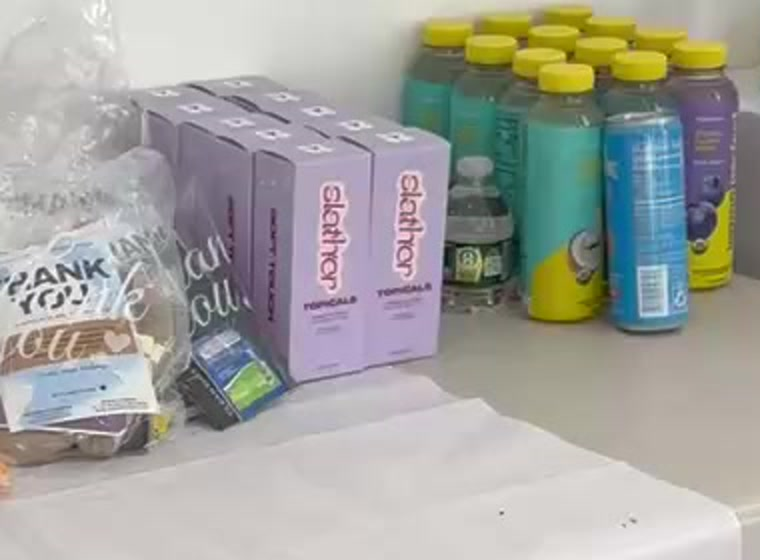
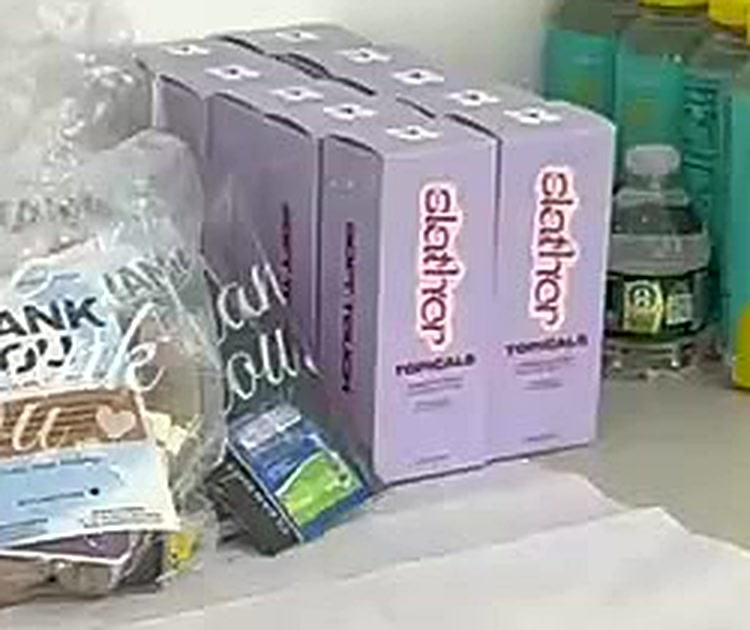
Refine partners: correct events, new photos, remove two, add to Partner tab
- Correct event labels: Lemon Perfect, Vital Proteins, and Topicals were
  Create & Recharge (not Pilates × Niara).
- Topicals: zoomed, enhanced product photo; Nuun: closer crop of the
  group shot showing the packets.
- Remove SkinnyPop (purchased with a Costco gift card, not a brand
  donation) and Breathe Right, including their images.
- Make the Featured Partners carousel reusable and also render it on the
  Partner With Us tab as social proof.

Claude-Session: https://claude.ai/code/session_01C5C3S2hPFNYWpceXrqPaqV

diff --git a/index.html b/index.html
@@ -3415,11 +3415,11 @@
         <div class="bq-partners-carousel">
           <button type="button" class="bq-partners-arrow bq-partners-prev" aria-label="Previous partner">&#8249;</button>
           <div class="bq-partners-viewport">
-            <div class="bq-partners-track" id="bq-partners-track"></div>
+            <div class="bq-partners-track"></div>
           </div>
           <button type="button" class="bq-partners-arrow bq-partners-next" aria-label="Next partner">&#8250;</button>
         </div>
-        <div class="bq-partners-dots" id="bq-partners-dots" role="tablist" aria-label="Choose partner"></div>
+        <div class="bq-partners-dots" role="tablist" aria-label="Choose partner"></div>
       </div>
 
       <style>
@@ -3468,91 +3468,91 @@
             event:'Pilates × Niara', handle:'@drinklmnt',
             url:'https://instagram.com/drinklmnt' },
           { name:'Lemon Perfect', img:'partners/lemon-perfect.jpg?v=2',
-            event:'Pilates × Niara', handle:'@lemonperfect',
+            event:'Create & Recharge', handle:'@lemonperfect',
             url:'https://instagram.com/lemonperfect' },
           { name:'Vital Proteins', img:'partners/vital-proteins.jpg?v=1',
-            event:'Pilates × Niara', handle:'@vitalproteins',
+            event:'Create & Recharge', handle:'@vitalproteins',
             url:'https://instagram.com/vitalproteins' },
           { name:'Grown Alchemist', img:'partners/grown-alchemist.jpg?v=1',
             event:'Juneteenth Celebration', handle:'@grownalchemist',
             url:'https://instagram.com/grownalchemist' },
-          { name:'SkinnyPop', img:'partners/skinnypop.jpg?v=1',
-            event:'Juneteenth Celebration', handle:'@skinnypop',
-            url:'https://instagram.com/skinnypop' },
           { name:'4AM', img:'partners/4am.jpg?v=1',
             event:'Juneteenth Celebration', handle:'@4amskin',
             url:'https://instagram.com/4amskin' },
-          { name:'Breathe Right', img:'partners/breathe-right.jpg?v=1',
-            event:'Juneteenth Celebration', handle:'@breatheright',
-            url:'https://instagram.com/breatheright' },
-          { name:'Nuun', img:'partners/nuun.jpg?v=1',
+          { name:'Nuun', img:'partners/nuun.jpg?v=2',
             event:'Pilates × Niara', handle:'@nuunhydration',
             url:'https://instagram.com/nuunhydration' },
-          { name:'Topicals', img:'partners/topicals.jpg?v=1',
-            event:'Pilates × Niara', handle:'@topicals',
+          { name:'Topicals', img:'partners/topicals.jpg?v=2',
+            event:'Create & Recharge', handle:'@topicals',
             url:'https://instagram.com/topicals' }
         ];
 
-        var section = document.getElementById('bq-partners');
-        if(!section || !PARTNERS.length) return;   // stays hidden while empty
-        section.hidden = false;
-
-        var track = document.getElementById('bq-partners-track');
-        var dotsWrap = document.getElementById('bq-partners-dots');
         function esc(s){ return String(s==null?'':s).replace(/[&<>"']/g,function(c){return {'&':'&amp;','<':'&lt;','>':'&gt;','"':'&quot;',"'":'&#39;'}[c];}); }
 
-        track.innerHTML = PARTNERS.map(function(p){
-          var handle = p.handle ? (p.url
-            ? '<a class="bq-partners-handle" href="'+esc(p.url)+'" target="_blank" rel="noopener">'+esc(p.handle)+'</a>'
-            : '<span class="bq-partners-handle">'+esc(p.handle)+'</span>') : '';
-          var ev = p.event ? '<div class="bq-partners-event">'+esc(p.event)+'</div>' : '';
-          return '<div class="bq-partners-slide"><div class="bq-partners-card">'
-            + '<div class="bq-partners-imgwrap"><img src="'+esc(p.img)+'" alt="'+esc(p.name)+'" loading="lazy"></div>'
-            + '<div class="bq-partners-name">'+esc(p.name)+'</div>'
-            + ev + handle
-            + '</div></div>';
-        }).join('');
+        function initPartners(section){
+          if(!section || !PARTNERS.length || section._partnersInit) return; // stays hidden while empty
+          section._partnersInit = true;
+          section.hidden = false;
 
-        var idx = 0, n = PARTNERS.length;
-        dotsWrap.innerHTML = PARTNERS.map(function(_,i){
-          return '<button type="button" class="bq-partners-dot" role="tab" aria-label="Partner '+(i+1)+'"'+(i===0?' aria-selected="true"':'')+' data-i="'+i+'"></button>';
-        }).join('');
-        var dots = [].slice.call(dotsWrap.querySelectorAll('.bq-partners-dot'));
+          var track = section.querySelector('.bq-partners-track');
+          var dotsWrap = section.querySelector('.bq-partners-dots');
+          if(!track || !dotsWrap) return;
 
-        function go(i){
-          idx = (i+n)%n;
-          track.style.transform = 'translateX(-'+(idx*100)+'%)';
-          dots.forEach(function(d,di){ d.setAttribute('aria-selected', di===idx?'true':'false'); });
+          track.innerHTML = PARTNERS.map(function(p){
+            var handle = p.handle ? (p.url
+              ? '<a class="bq-partners-handle" href="'+esc(p.url)+'" target="_blank" rel="noopener">'+esc(p.handle)+'</a>'
+              : '<span class="bq-partners-handle">'+esc(p.handle)+'</span>') : '';
+            var ev = p.event ? '<div class="bq-partners-event">'+esc(p.event)+'</div>' : '';
+            return '<div class="bq-partners-slide"><div class="bq-partners-card">'
+              + '<div class="bq-partners-imgwrap"><img src="'+esc(p.img)+'" alt="'+esc(p.name)+'" loading="lazy"></div>'
+              + '<div class="bq-partners-name">'+esc(p.name)+'</div>'
+              + ev + handle
+              + '</div></div>';
+          }).join('');
+
+          var idx = 0, n = PARTNERS.length;
+          dotsWrap.innerHTML = PARTNERS.map(function(_,i){
+            return '<button type="button" class="bq-partners-dot" role="tab" aria-label="Partner '+(i+1)+'"'+(i===0?' aria-selected="true"':'')+' data-i="'+i+'"></button>';
+          }).join('');
+          var dots = [].slice.call(dotsWrap.querySelectorAll('.bq-partners-dot'));
+
+          function go(i){
+            idx = (i+n)%n;
+            track.style.transform = 'translateX(-'+(idx*100)+'%)';
+            dots.forEach(function(d,di){ d.setAttribute('aria-selected', di===idx?'true':'false'); });
+          }
+          var prev = section.querySelector('.bq-partners-prev');
+          var next = section.querySelector('.bq-partners-next');
+          var single = n < 2;
+          if(single){ if(prev)prev.style.display='none'; if(next)next.style.display='none'; dotsWrap.style.display='none'; }
+          if(prev) prev.addEventListener('click', function(){ go(idx-1); rest(); });
+          if(next) next.addEventListener('click', function(){ go(idx+1); rest(); });
+          dots.forEach(function(d){ d.addEventListener('click', function(){ go(+d.getAttribute('data-i')); rest(); }); });
+
+          // Autoplay (pauses on hover / when tab not visible)
+          var timer=null;
+          function play(){ if(single) return; stop(); timer=setInterval(function(){ go(idx+1); }, 4500); }
+          function stop(){ if(timer){ clearInterval(timer); timer=null; } }
+          function rest(){ stop(); play(); }
+          section.addEventListener('mouseenter', stop);
+          section.addEventListener('mouseleave', play);
+          document.addEventListener('visibilitychange', function(){ document.hidden ? stop() : play(); });
+
+          // Swipe (mobile)
+          var x0=null;
+          var vp = section.querySelector('.bq-partners-viewport');
+          vp.addEventListener('touchstart', function(e){ x0=e.touches[0].clientX; stop(); }, {passive:true});
+          vp.addEventListener('touchend', function(e){
+            if(x0===null) return;
+            var dx=e.changedTouches[0].clientX - x0;
+            if(Math.abs(dx)>40){ go(idx + (dx<0?1:-1)); }
+            x0=null; play();
+          }, {passive:true});
+
+          play();
         }
-        var prev = section.querySelector('.bq-partners-prev');
-        var next = section.querySelector('.bq-partners-next');
-        var single = n < 2;
-        if(single){ if(prev)prev.style.display='none'; if(next)next.style.display='none'; dotsWrap.style.display='none'; }
-        if(prev) prev.addEventListener('click', function(){ go(idx-1); rest(); });
-        if(next) next.addEventListener('click', function(){ go(idx+1); rest(); });
-        dots.forEach(function(d){ d.addEventListener('click', function(){ go(+d.getAttribute('data-i')); rest(); }); });
 
-        // Autoplay (pauses on hover / when tab not visible)
-        var timer=null;
-        function play(){ if(single) return; stop(); timer=setInterval(function(){ go(idx+1); }, 4500); }
-        function stop(){ if(timer){ clearInterval(timer); timer=null; } }
-        function rest(){ stop(); play(); }
-        section.addEventListener('mouseenter', stop);
-        section.addEventListener('mouseleave', play);
-        document.addEventListener('visibilitychange', function(){ document.hidden ? stop() : play(); });
-
-        // Swipe (mobile)
-        var x0=null;
-        var vp = section.querySelector('.bq-partners-viewport');
-        vp.addEventListener('touchstart', function(e){ x0=e.touches[0].clientX; stop(); }, {passive:true});
-        vp.addEventListener('touchend', function(e){
-          if(x0===null) return;
-          var dx=e.changedTouches[0].clientX - x0;
-          if(Math.abs(dx)>40){ go(idx + (dx<0?1:-1)); }
-          x0=null; play();
-        }, {passive:true});
-
-        play();
+        [].slice.call(document.querySelectorAll('.bq-partners-section')).forEach(initPartners);
       })();
       </script>
     </section>
@@ -4175,6 +4175,23 @@
       </blockquote>
 
       <div style="text-align:center;font-family:'Cormorant Garamond',Georgia,serif;font-style:italic;font-size:1.15rem;color:var(--brown);">Have something in mind? Tell us what you&rsquo;re imagining &darr;</div>
+    </section>
+
+    <!-- Featured Partners (shared carousel — styles + JS live in the Home-tab section) -->
+    <section class="bq-partners-section" hidden aria-label="Featured partners" style="padding:1rem 1.25rem 2rem;">
+      <div class="bq-partners-inner">
+        <div class="bq-section-eyebrow">In Good Company</div>
+        <h2 class="bq-section-title">Featured <em>Partners</em></h2>
+        <p class="bq-partners-desc">With gratitude to the brands who have generously gifted product to our events and gift bags. &#129293;</p>
+        <div class="bq-partners-carousel">
+          <button type="button" class="bq-partners-arrow bq-partners-prev" aria-label="Previous partner">&#8249;</button>
+          <div class="bq-partners-viewport">
+            <div class="bq-partners-track"></div>
+          </div>
+          <button type="button" class="bq-partners-arrow bq-partners-next" aria-label="Next partner">&#8250;</button>
+        </div>
+        <div class="bq-partners-dots" role="tablist" aria-label="Choose partner"></div>
+      </div>
     </section>
 
     <!-- Info box -->
